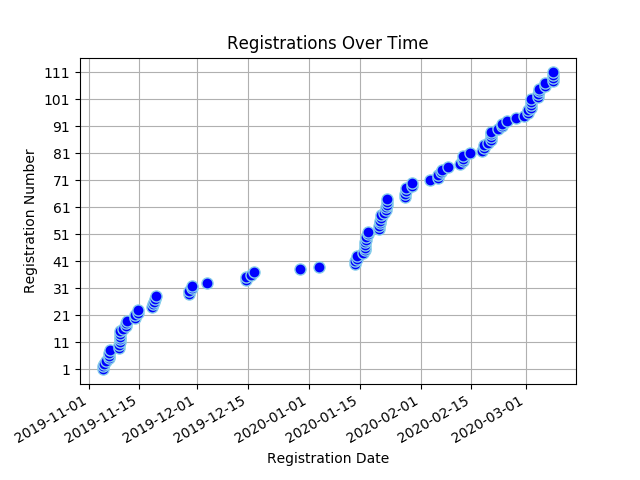
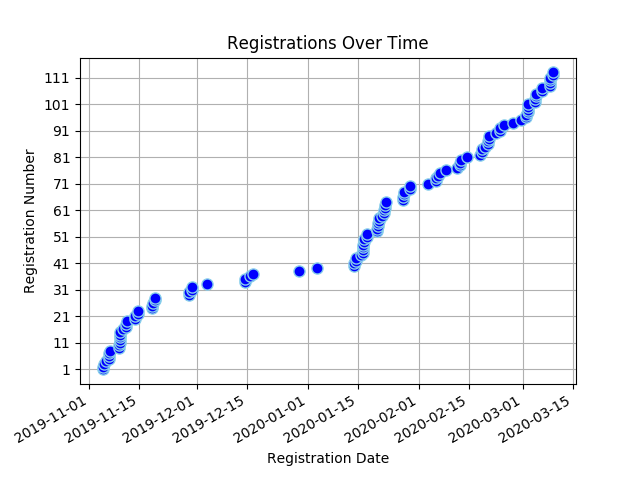
Registree stats backup on Mon Mar  9 13:16:54 SAST 2020

diff --git a/content/registrees/_index.md b/content/registrees/_index.md
@@ -3,9 +3,9 @@ title: Registration Stats
 draft: false
 ---
 
-<ul><li><strong>Number of Registrees</strong>: 111</li>
+<ul><li><strong>Number of Registrees</strong>: 113</li>
 
-<li><strong>Number of Clubs</strong>: 47</li>
+<li><strong>Number of Clubs</strong>: 48</li>
 
 <li><strong>Club With Most Attendees</strong>: Cape Of Good Hope (12 registrees)</li>
 </ul><h2>Registrees</h2>
@@ -30,6 +30,6 @@ draft: false
         </tr>
     </thead>
     <tbody>
-<tr><td>Linda Anderson</td><td>George</td></tr><tr><td>Karl Bands</td><td>Helderkruin</td></tr><tr><td>Jonquille Bands</td><td>Helderkruin</td></tr><tr><td>Valencia Beukes</td><td>Kuilsriver</td></tr><tr><td>Lyn Botha</td><td>Cowies Hill</td></tr><tr><td>Annette Bothma</td><td>Fish Hoek</td></tr><tr><td>Jose Braga Borges</td><td>Malmesbury</td></tr><tr><td>Nkandu Chapeshamano</td><td>Rustenburg</td></tr><tr><td>Lynnette Virginia Christians</td><td>Cape Of Good Hope</td></tr><tr><td>Sharon Cottle</td><td>Groote Schuur</td></tr><tr><td>Ivan Du Plooy</td><td>Krugersdorp</td></tr><tr><td>Peggy Du Plooy</td><td>Krugersdorp</td></tr><tr><td>Desiree Du Toit</td><td>Ramsgate</td></tr><tr><td>Charles Flanagan</td><td>Tokai</td></tr><tr><td>Julie Flanagan</td><td>Tokai</td></tr><tr><td>Allison Georges</td><td>Cape Of Good Hope</td></tr><tr><td>Bernd Gerhard</td><td>Wilro Park</td></tr><tr><td>Shirley Gerhard</td><td>Wilro Park</td></tr><tr><td>Valerie Graham</td><td>Nelspruit</td></tr><tr><td>Michael Graham</td><td>Nelspruit</td></tr><tr><td>Victor Hawla</td><td>Krugersdorp</td></tr><tr><td>Loriane Hawla</td><td>(Partner in Service)</td></tr><tr><td>Barbara Haywood</td><td>Eden</td></tr><tr><td>Wendy Higgins</td><td>Wilro Park</td></tr><tr><td>Trevor Hobbs</td><td>North Durban</td></tr><tr><td>Avril Hobbs</td><td>North Durban</td></tr><tr><td>Jacqui Hocking</td><td>Midrand</td></tr><tr><td>Cliff Hocking</td><td>Midrand</td></tr><tr><td>Leslie Human</td><td>East London Port Rex</td></tr><tr><td>Akinyemi Ismaila Tunde</td><td>-</td></tr><tr><td>Dawid Jacobs</td><td>Durbanville</td></tr><tr><td>Jean Jacobs</td><td>Mitchells Plain</td></tr><tr><td>Brenda Joshua</td><td>Cape Of Good Hope</td></tr><tr><td>Marco Joubert</td><td>Tygerberg Hills</td></tr><tr><td>Charlotte Jubelin</td><td>Cape Of Good Hope</td></tr><tr><td>Pascal Kabangu</td><td>Cape Of Good Hope</td></tr><tr><td>Zwaai Krüger</td><td>Sedgefield</td></tr><tr><td>Bevil Lakay</td><td>Mitchells Plain</td></tr><tr><td>Paula Lang</td><td>Gordons Bay</td></tr><tr><td>James Malcolm Lang</td><td>Gordons Bay</td></tr><tr><td>Heather Lee</td><td>Cape Of Good Hope</td></tr><tr><td>Darrol Lee</td><td>Cape Of Good Hope</td></tr><tr><td>Tony Marron</td><td>Kingsburgh</td></tr><tr><td>Nick Maré</td><td>Benoni Lakes</td></tr><tr><td>Beaulieu Maré</td><td>Benoni Lakes</td></tr><tr><td>Lance Maytham</td><td>Bredasdorp</td></tr><tr><td>Mark Meltzer</td><td>The Wilds</td></tr><tr><td>Roy Michas</td><td>Midrand</td></tr><tr><td>Dawn Michas</td><td>Midrand</td></tr><tr><td>Patrick Mills</td><td>Centurion</td></tr><tr><td>Bernice Mills</td><td>Centurion</td></tr><tr><td>Brian Moses</td><td>Cape Of Good Hope</td></tr><tr><td>Alain Moulounda</td><td>Cape Of Good Hope</td></tr><tr><td>Tillie Nel</td><td>Eden</td></tr><tr><td>Pieter Nel</td><td>George</td></tr><tr><td>Michael Newlands</td><td>Port Alfred</td></tr><tr><td>Ramona Nulliah</td><td>Durban Host</td></tr><tr><td>Gary Nulliah</td><td>Durban Host</td></tr><tr><td>William Pfaff</td><td>North Durban</td></tr><tr><td>Jessica Philander</td><td>Cape Of Good Hope</td></tr><tr><td>Gavin Polkinghorne</td><td>Kensington</td></tr><tr><td>Tracey Polkinghorne</td><td>Kensington</td></tr><tr><td>Yvonne  Maureen Poyo</td><td>Cape Of Good Hope</td></tr><tr><td>Karin Preston</td><td>Durban South</td></tr><tr><td>Leon Ras</td><td>Swellendam</td></tr><tr><td>Mary-Anne Ras</td><td>Swellendam</td></tr><tr><td>Moira Rigby</td><td>Kingsburgh</td></tr><tr><td>David Rigby</td><td>Kingsburgh</td></tr><tr><td>Mark Rossouw</td><td>Tokai</td></tr><tr><td>Sharon Sampie</td><td>Bergvliet</td></tr><tr><td>Pinky Serobatse</td><td>(Partner in Service)</td></tr><tr><td>Susanna Helena Smit</td><td>Centurion</td></tr><tr><td>Herman Smit</td><td>Swellendam</td></tr><tr><td>Berdine Smit</td><td>(Partner in Service)</td></tr><tr><td>Bennie Smith</td><td>Wellington</td></tr><tr><td>Rochelle Smith</td><td>Cape Of Good Hope</td></tr><tr><td>Jeff Smith</td><td>Port Shepstone</td></tr><tr><td>Pierre Theron</td><td>Midrand</td></tr><tr><td>Moira Theron</td><td>Midrand</td></tr><tr><td>Diane Townsend</td><td>Benoni Lakes</td></tr><tr><td>Kendyl Townsend</td><td>Benoni Lakes</td></tr><tr><td>Alex Tshikala</td><td>Athlone</td></tr><tr><td>Alistair Tuckett</td><td>Roodepoort Clearwater Cyber</td></tr><tr><td>Gail Tuckett</td><td>Roodepoort Clearwater Cyber</td></tr><tr><td>Rowan Tuckett</td><td>Roodepoort Clearwater Cyber</td></tr><tr><td>Neville Van Rensburg</td><td>Moorreesburg</td></tr><tr><td>Jeannie Van Wulven</td><td>Tygerberg Hills</td></tr><tr><td>Yolandi Van der Schyf</td><td>Midrand</td></tr><tr><td>Keith Weston</td><td>Scottburgh</td></tr><tr><td>Barbara Weston</td><td>Scottburgh</td></tr><tr><td>Joyce Wilcocks</td><td>Pretoria Jakaranda</td></tr><tr><td>Richard Williams</td><td>(Partner in Service)</td></tr><tr><td>Owolabi Williams Monzur</td><td>Badagry</td></tr><tr><td>Geila Wills</td><td>Cape Town</td></tr><tr><td>Patricia Wilson</td><td>Kingsburgh</td></tr><tr><td>Rocky Wright</td><td>Table View</td></tr><tr><td>Judy Young</td><td>Durbanville</td></tr><tr><td>Sydney van Heerden</td><td>Wilro Park</td></tr><tr><td>Sandy van Heerden</td><td>Wilro Park</td></tr><tr><td>Deon van Wulven</td><td>Tygerberg Hills</td></tr><tr><td>Janine van Wulven</td><td>Tygerberg Hills</td></tr><tr><td>Lindie van Wyk</td><td>Pretoria Jakaranda</td></tr><tr><td>Vicki van Wyk</td><td>North Durban</td></tr><tr><td>Kim van Wyk</td><td>North Durban</td></tr><tr><td>Patricia van Wyk</td><td>Pretoria Jakaranda</td></tr><tr><td>Willie van Wyk</td><td>Midrand</td></tr><tr><td>Martha Maria van der Merwe</td><td>Malmesbury</td></tr><tr><td>Brian von der Decken</td><td>King William's Town</td></tr><tr><td>Janet von der Decken</td><td>(Partner in Service)</td></tr><tr><td>Andrew von der Decken</td><td>King William's Town</td></tr><tr><td>Ann von der Decken</td><td>King William's Town</td></tr>
+<tr><td>Linda Anderson</td><td>George</td></tr><tr><td>Karl Bands</td><td>Helderkruin</td></tr><tr><td>Jonquille Bands</td><td>Helderkruin</td></tr><tr><td>Valencia Beukes</td><td>Kuilsriver</td></tr><tr><td>Lyn Botha</td><td>Cowies Hill</td></tr><tr><td>Annette Bothma</td><td>Fish Hoek</td></tr><tr><td>Jose Braga Borges</td><td>Malmesbury</td></tr><tr><td>Nkandu Chapeshamano</td><td>Rustenburg</td></tr><tr><td>Lynnette Virginia Christians</td><td>Cape Of Good Hope</td></tr><tr><td>Sharon Cottle</td><td>Groote Schuur</td></tr><tr><td>Ivan Du Plooy</td><td>Krugersdorp</td></tr><tr><td>Peggy Du Plooy</td><td>Krugersdorp</td></tr><tr><td>Desiree Du Toit</td><td>Ramsgate</td></tr><tr><td>Charles Flanagan</td><td>Tokai</td></tr><tr><td>Julie Flanagan</td><td>Tokai</td></tr><tr><td>Allison Georges</td><td>Cape Of Good Hope</td></tr><tr><td>Bernd Gerhard</td><td>Wilro Park</td></tr><tr><td>Shirley Gerhard</td><td>Wilro Park</td></tr><tr><td>Valerie Graham</td><td>Nelspruit</td></tr><tr><td>Michael Graham</td><td>Nelspruit</td></tr><tr><td>Victor Hawla</td><td>Krugersdorp</td></tr><tr><td>Loriane Hawla</td><td>(Partner in Service)</td></tr><tr><td>Barbara Haywood</td><td>Eden</td></tr><tr><td>Wendy Higgins</td><td>Wilro Park</td></tr><tr><td>Trevor Hobbs</td><td>North Durban</td></tr><tr><td>Avril Hobbs</td><td>North Durban</td></tr><tr><td>Jacqui Hocking</td><td>Midrand</td></tr><tr><td>Cliff Hocking</td><td>Midrand</td></tr><tr><td>Leslie Human</td><td>East London Port Rex</td></tr><tr><td>Akinyemi Ismaila Tunde</td><td>-</td></tr><tr><td>Dawid Jacobs</td><td>Durbanville</td></tr><tr><td>Jean Jacobs</td><td>Mitchells Plain</td></tr><tr><td>Brenda Joshua</td><td>Cape Of Good Hope</td></tr><tr><td>Marco Joubert</td><td>Tygerberg Hills</td></tr><tr><td>Charlotte Jubelin</td><td>Cape Of Good Hope</td></tr><tr><td>Pascal Kabangu</td><td>Cape Of Good Hope</td></tr><tr><td>Ian King</td><td>Alberton</td></tr><tr><td>Sandy King</td><td>Alberton</td></tr><tr><td>Zwaai Krüger</td><td>Sedgefield</td></tr><tr><td>Bevil Lakay</td><td>Mitchells Plain</td></tr><tr><td>Paula Lang</td><td>Gordons Bay</td></tr><tr><td>James Malcolm Lang</td><td>Gordons Bay</td></tr><tr><td>Heather Lee</td><td>Cape Of Good Hope</td></tr><tr><td>Darrol Lee</td><td>Cape Of Good Hope</td></tr><tr><td>Tony Marron</td><td>Kingsburgh</td></tr><tr><td>Nick Maré</td><td>Benoni Lakes</td></tr><tr><td>Beaulieu Maré</td><td>Benoni Lakes</td></tr><tr><td>Lance Maytham</td><td>Bredasdorp</td></tr><tr><td>Mark Meltzer</td><td>The Wilds</td></tr><tr><td>Roy Michas</td><td>Midrand</td></tr><tr><td>Dawn Michas</td><td>Midrand</td></tr><tr><td>Patrick Mills</td><td>Centurion</td></tr><tr><td>Bernice Mills</td><td>Centurion</td></tr><tr><td>Brian Moses</td><td>Cape Of Good Hope</td></tr><tr><td>Alain Moulounda</td><td>Cape Of Good Hope</td></tr><tr><td>Tillie Nel</td><td>Eden</td></tr><tr><td>Pieter Nel</td><td>George</td></tr><tr><td>Michael Newlands</td><td>Port Alfred</td></tr><tr><td>Ramona Nulliah</td><td>Durban Host</td></tr><tr><td>Gary Nulliah</td><td>Durban Host</td></tr><tr><td>William Pfaff</td><td>North Durban</td></tr><tr><td>Jessica Philander</td><td>Cape Of Good Hope</td></tr><tr><td>Gavin Polkinghorne</td><td>Kensington</td></tr><tr><td>Tracey Polkinghorne</td><td>Kensington</td></tr><tr><td>Yvonne  Maureen Poyo</td><td>Cape Of Good Hope</td></tr><tr><td>Karin Preston</td><td>Durban South</td></tr><tr><td>Leon Ras</td><td>Swellendam</td></tr><tr><td>Mary-Anne Ras</td><td>Swellendam</td></tr><tr><td>Moira Rigby</td><td>Kingsburgh</td></tr><tr><td>David Rigby</td><td>Kingsburgh</td></tr><tr><td>Mark Rossouw</td><td>Tokai</td></tr><tr><td>Sharon Sampie</td><td>Bergvliet</td></tr><tr><td>Pinky Serobatse</td><td>(Partner in Service)</td></tr><tr><td>Susanna Helena Smit</td><td>Centurion</td></tr><tr><td>Herman Smit</td><td>Swellendam</td></tr><tr><td>Berdine Smit</td><td>(Partner in Service)</td></tr><tr><td>Bennie Smith</td><td>Wellington</td></tr><tr><td>Rochelle Smith</td><td>Cape Of Good Hope</td></tr><tr><td>Jeff Smith</td><td>Port Shepstone</td></tr><tr><td>Pierre Theron</td><td>Midrand</td></tr><tr><td>Moira Theron</td><td>Midrand</td></tr><tr><td>Diane Townsend</td><td>Benoni Lakes</td></tr><tr><td>Kendyl Townsend</td><td>Benoni Lakes</td></tr><tr><td>Alex Tshikala</td><td>Athlone</td></tr><tr><td>Alistair Tuckett</td><td>Roodepoort Clearwater Cyber</td></tr><tr><td>Gail Tuckett</td><td>Roodepoort Clearwater Cyber</td></tr><tr><td>Rowan Tuckett</td><td>Roodepoort Clearwater Cyber</td></tr><tr><td>Neville Van Rensburg</td><td>Moorreesburg</td></tr><tr><td>Jeannie Van Wulven</td><td>Tygerberg Hills</td></tr><tr><td>Yolandi Van der Schyf</td><td>Midrand</td></tr><tr><td>Keith Weston</td><td>Scottburgh</td></tr><tr><td>Barbara Weston</td><td>Scottburgh</td></tr><tr><td>Joyce Wilcocks</td><td>Pretoria Jakaranda</td></tr><tr><td>Richard Williams</td><td>(Partner in Service)</td></tr><tr><td>Owolabi Williams Monzur</td><td>Badagry</td></tr><tr><td>Geila Wills</td><td>Cape Town</td></tr><tr><td>Patricia Wilson</td><td>Kingsburgh</td></tr><tr><td>Rocky Wright</td><td>Table View</td></tr><tr><td>Judy Young</td><td>Durbanville</td></tr><tr><td>Sydney van Heerden</td><td>Wilro Park</td></tr><tr><td>Sandy van Heerden</td><td>Wilro Park</td></tr><tr><td>Deon van Wulven</td><td>Tygerberg Hills</td></tr><tr><td>Janine van Wulven</td><td>Tygerberg Hills</td></tr><tr><td>Lindie van Wyk</td><td>Pretoria Jakaranda</td></tr><tr><td>Vicki van Wyk</td><td>North Durban</td></tr><tr><td>Kim van Wyk</td><td>North Durban</td></tr><tr><td>Patricia van Wyk</td><td>Pretoria Jakaranda</td></tr><tr><td>Willie van Wyk</td><td>Midrand</td></tr><tr><td>Martha Maria van der Merwe</td><td>Malmesbury</td></tr><tr><td>Brian von der Decken</td><td>King William's Town</td></tr><tr><td>Janet von der Decken</td><td>(Partner in Service)</td></tr><tr><td>Andrew von der Decken</td><td>King William's Town</td></tr><tr><td>Ann von der Decken</td><td>King William's Town</td></tr>
 </tbody>
 </table>

diff --git a/content/full_stats/_index.md b/content/full_stats/_index.md
@@ -11,13 +11,13 @@
 <body>
 <h1 style="color: #000000;">Full Registration Stats</h1>
 <ul><li><strong>Number of Registrees</strong><ul>
-<li><strong>Total</strong>: 111</li>
-<li><strong>Lions</strong>: 106</li>
+<li><strong>Total</strong>: 113</li>
+<li><strong>Lions</strong>: 108</li>
 <li><strong>Partners In Service</strong>: 5</li>
 </ul>
-<li><strong>Number of Clubs</strong>: 47</li>
+<li><strong>Number of Clubs</strong>: 48</li>
 <li><strong>Club With Most Attendees</strong>: Cape Of Good Hope (12 registrees)</li>
-<li><strong>Registrations</strong></li><ul><li><strong>Full</strong>: 108
+<li><strong>Registrations</strong></li><ul><li><strong>Full</strong>: 110
 <li><strong>Banquet</strong>: 1
 <li><strong>Convention</strong>: 2
 <li><strong>Theme</strong>: 1
@@ -25,16 +25,16 @@
 <li><strong>Pins</strong>: 90
 </ul><li><strong>Extra Activities</strong></li><ul>
 <li><strong>MJF Lunch</strong>: 33
-<li><strong>PDG Breakfast</strong>: 28
+<li><strong>PDG Breakfast</strong>: 29
 <li><strong>Sharks Board</strong>: 6
 <li><strong>Golf</strong>: 3
 <li><strong>Sight Seeing</strong>: 13
 <li><strong>Service Project</strong>: 21
 <li><strong>Partner Program</strong>: 5
 </ul>
-<li><strong>Total Owed:</strong> R145480.00</li>
+<li><strong>Total Owed:</strong> R148050.00</li>
 <li><strong>Paid:</strong> R75535.00</li>
-<li><strong>Still Owed:</strong> R69945.00</li>
+<li><strong>Still Owed:</strong> R72515.00</li>
 <li><strong>Dietary Requirements</strong></li><ul>
 <li>Allergic to Shellfish</li>
 <li>Allergic to cheese and cream</li>
@@ -474,6 +474,28 @@ StillOwed
 <td>1340.00</td>
 <td>0.00</td>
 <td>1340.00</td>
+</tr>
+
+    
+<tr style="background-color: yellow">
+<td>124</td>
+<td>Ian King</td>
+<td>Alberton</td>
+<td>PDG Ian King</td>
+<td>1285.00</td>
+<td>0.00</td>
+<td>1285.00</td>
+</tr>
+
+    
+<tr style="background-color: yellow">
+<td>125</td>
+<td>Sandy King</td>
+<td>Alberton</td>
+<td>Lion Sandy</td>
+<td>1285.00</td>
+<td>0.00</td>
+<td>1285.00</td>
 </tr>
 
     
